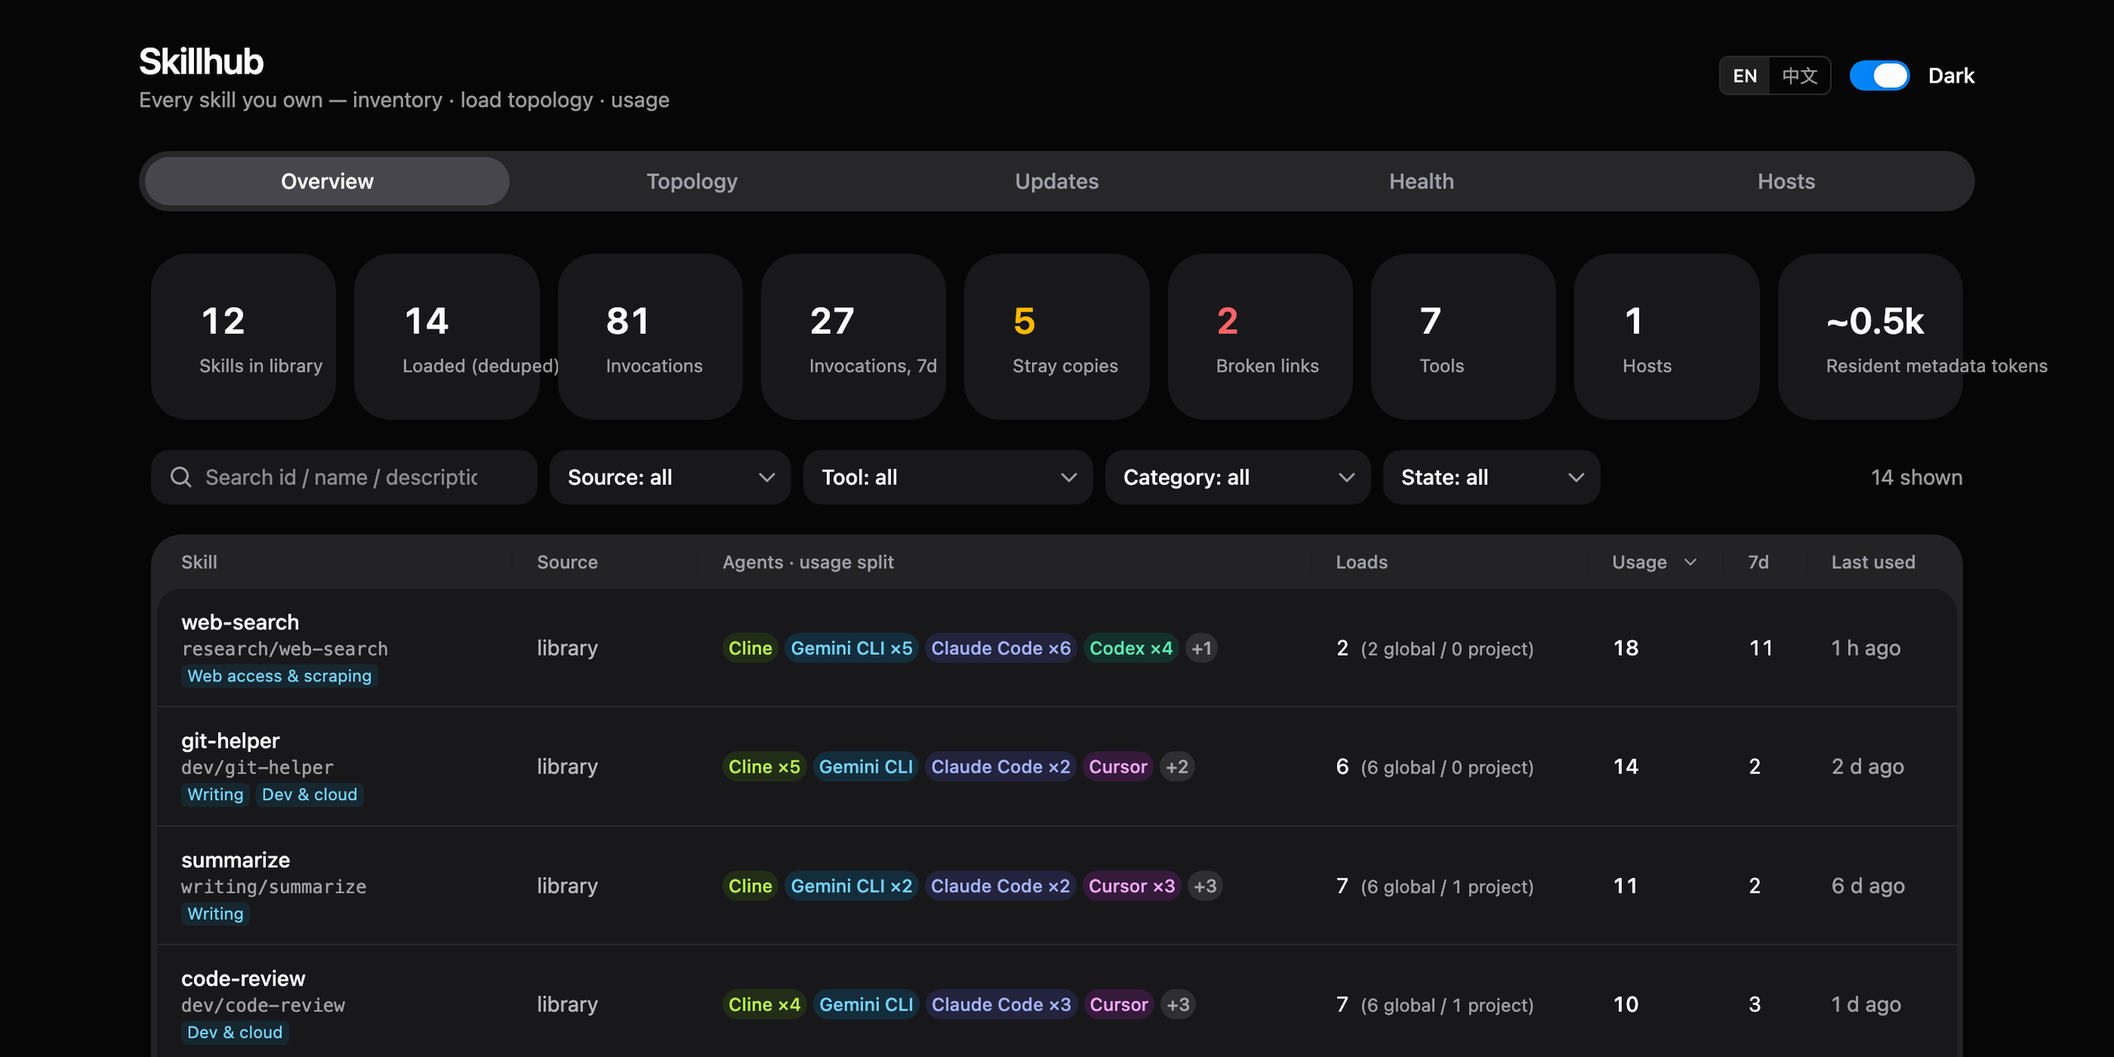
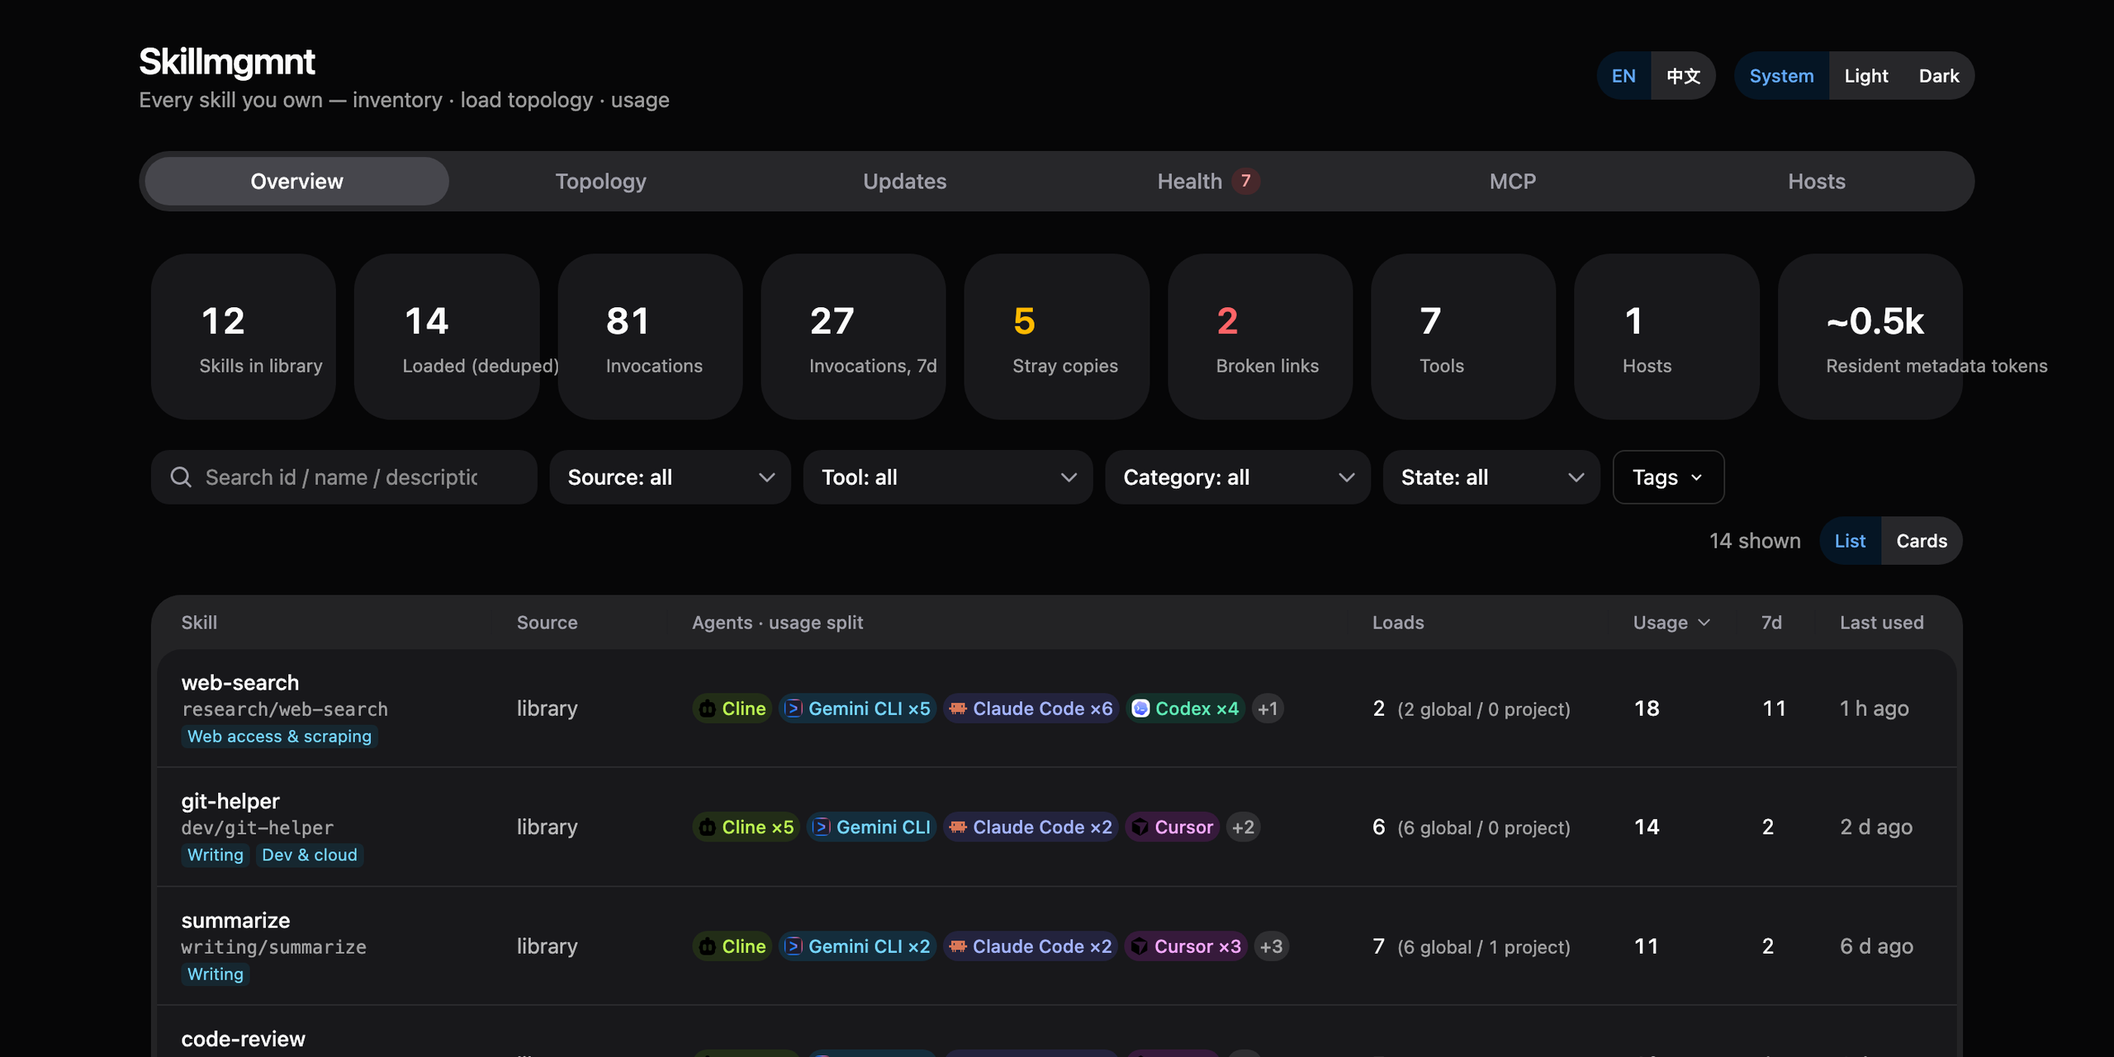
chore: rename to Skillmgmnt, with a fallback so existing installs keep working
The repository moved to hcodestack/skillmgmnt. The rename is scoped so that
nobody's install breaks over a name.

- **Environment variables** are now `SKILLMGMNT_*`. Every one is read as
  `SKILLMGMNT_<name>` first and falls back to `SKILLHUB_<name>`, so existing
  compose files and shell profiles keep working. The server prints one line at
  startup naming any old variable it is still reading, and the READMEs mark the
  old prefix deprecated.
- **bin/skillhub** applies the same fallback in shell, which matters more than
  it looks: `~/.skillhub/env` is written without `export`, so an `env` scan
  would miss every variable in it. `${!SKILLHUB_@}` covers shell variables too.
  Verified against a simulated pre-rename config.
- **The displayed name** is now Skillmgmnt, and the screenshots were retaken.
  A screenshot of the MCP tab is new.

Deliberately unchanged: `~/.skillhub`, the `skillhub_server` package, the
launchd and systemd unit names, the Docker volume, and the MCP registration
name. Renaming any of them would orphan an existing install's config or data
for a purely cosmetic gain.

diff --git a/web/src/lib/i18n.tsx b/web/src/lib/i18n.tsx
@@ -28,7 +28,7 @@ const STORAGE_KEY = 'skillhub-lang';
 
 const M = {
   // ── shell ──────────────────────────────────────────────────────────────
-  'app.title': ['Skillhub — local skill overview', 'Skillhub — 本地技能总揽'],
+  'app.title': ['Skillmgmnt — local skill overview', 'Skillmgmnt — 本地技能总揽'],
   'app.subtitle': [
     'Every skill you own — inventory · load topology · usage',
     '本地技能总揽 — 库存 · 载入拓扑 · 调用记录',

diff --git a/web/src/App.tsx b/web/src/App.tsx
@@ -108,7 +108,7 @@ export default function App() {
     <div className="mx-auto max-w-7xl px-4 py-6 md:px-8">
       <header className="mb-6 flex flex-wrap items-center justify-between gap-4">
         <div>
-          <h1 className="text-2xl font-semibold tracking-tight">Skillhub</h1>
+          <h1 className="text-2xl font-semibold tracking-tight">Skillmgmnt</h1>
           <p className="text-sm text-foreground/60">{t('app.subtitle')}</p>
         </div>
         <div className="flex flex-wrap items-center gap-3">

diff --git a/web/index.html b/web/index.html
@@ -3,7 +3,7 @@
   <head>
     <meta charset="UTF-8" />
     <meta name="viewport" content="width=device-width, initial-scale=1.0" />
-    <title>Skillhub — local skill overview</title>
+    <title>Skillmgmnt — local skill overview</title>
     <script>
       const t = localStorage.getItem('skillhub-theme')
         ?? (matchMedia('(prefers-color-scheme: dark)').matches ? 'dark' : 'light');

diff --git a/server/skillhub_server/core/config.py b/server/skillhub_server/core/config.py
@@ -1,35 +1,38 @@
 """Runtime configuration, overridable via environment variables.
 
-SKILLHUB_LIBRARY_ROOT   the skills library directory (the one required setting).
+Variables are named SKILLMGMNT_*. The former SKILLHUB_* names still
+work and are deprecated; see `_env` below.
+
+SKILLMGMNT_LIBRARY_ROOT   the skills library directory (the one required setting).
                         The hub scans it recursively for directories containing
                         a SKILL.md — no index file or particular layout needed.
-SKILLHUB_LIBRARY_INDEX  OPTIONAL: path to a pre-built index JSON
+SKILLMGMNT_LIBRARY_INDEX  OPTIONAL: path to a pre-built index JSON
                         ([{"id","name","description","source"}, ...]). When set
                         and present it is used instead of scanning, and the hub
                         re-syncs whenever the file's mtime changes. Useful when
                         an external tool already maintains a catalog.
-SKILLHUB_LIBRARY_SUBDIRS
+SKILLMGMNT_LIBRARY_SUBDIRS
                         OPTIONAL, comma-separated: restrict skill lookup to
                         these first-level subdirectories (e.g. "vendored,own").
                         Unset = the whole library root.
-SKILLHUB_INSTALLER_SUBDIR
+SKILLMGMNT_INSTALLER_SUBDIR
                         OPTIONAL: one subdirectory whose skills are managed by
                         their own installer CLI — the hub reports them but never
                         suggests updating them itself.
-SKILLHUB_ENTITY_WHITELIST
+SKILLMGMNT_ENTITY_WHITELIST
                         OPTIONAL, comma-separated "agent:entry_name" pairs that
                         are legitimately real directories inside tool entry dirs
                         (not stray copies) and should not be flagged.
-SKILLHUB_PROVENANCE_FILE
+SKILLMGMNT_PROVENANCE_FILE
                         OPTIONAL: JSON file mapping skill families to upstream
                         repos for the update checker — see core/provenance.py
                         for the schema.
-SKILLHUB_LIBRARY_DISPLAY_ROOT
+SKILLMGMNT_LIBRARY_DISPLAY_ROOT
                         library path as the USER sees it. The hub may see the
                         library at its own mount point (/library in Docker),
                         which is useless in a command someone pastes into their
                         own terminal — copyable commands use this instead.
-SKILLHUB_SELF_REPORT    "auto" (default) | "1" | "0". When on, the server runs
+SKILLMGMNT_SELF_REPORT    "auto" (default) | "1" | "0". When on, the server runs
                         the bundled reporter against itself every 15 minutes —
                         so a single-machine install needs no launchd/cron at
                         all. "auto" = on when the reporter script is present
@@ -37,9 +40,9 @@ SKILLHUB_SELF_REPORT    "auto" (default) | "1" | "0". When on, the server runs
                         scanning its own $HOME would observe nothing useful).
                         Multi-machine setups keep per-machine reporters and
                         can leave this on for the hub machine itself.
-SKILLHUB_DB             SQLite database path
-SKILLHUB_STATIC         built web SPA dir served at /
-SKILLHUB_HOST / SKILLHUB_PORT
+SKILLMGMNT_DB             SQLite database path
+SKILLMGMNT_STATIC         built web SPA dir served at /
+SKILLMGMNT_HOST / SKILLMGMNT_PORT
 """
 import os
 from pathlib import Path
@@ -48,22 +51,40 @@ BASE_DIR = Path(__file__).resolve().parent.parent.parent  # server/
 
 
 def _env(key: str, default: str) -> str:
-    return os.environ.get(key, default)
+    """Read `SKILLMGMNT_<key>`, falling back to the old `SKILLHUB_<key>`.
+
+    The project was renamed after people had already put the old names into
+    compose files and shell profiles. Dropping them would break those installs
+    for a cosmetic reason, so the old prefix keeps working and is documented as
+    deprecated. Remove the fallback only in a release that says it is doing so.
+    """
+    for prefix in ("SKILLMGMNT_", "SKILLHUB_"):
+        v = os.environ.get(prefix + key)
+        if v is not None:
+            return v
+    return default
+
+
+def legacy_env_in_use() -> list[str]:
+    """Old-prefix variables that are actually set, for a startup warning."""
+    return sorted(k for k in os.environ
+                  if k.startswith("SKILLHUB_")
+                  and ("SKILLMGMNT_" + k[len("SKILLHUB_"):]) not in os.environ)
 
 
 class Settings:
-    db_path = _env("SKILLHUB_DB", str(BASE_DIR / "data" / "skillhub.db"))
-    library_index = _env("SKILLHUB_LIBRARY_INDEX", "")
-    library_root = _env("SKILLHUB_LIBRARY_ROOT", "")
-    library_subdirs = _env("SKILLHUB_LIBRARY_SUBDIRS", "")
-    installer_subdir = _env("SKILLHUB_INSTALLER_SUBDIR", "")
-    entity_whitelist_raw = _env("SKILLHUB_ENTITY_WHITELIST", "")
-    provenance_file = _env("SKILLHUB_PROVENANCE_FILE", "")
-    library_display_root = _env("SKILLHUB_LIBRARY_DISPLAY_ROOT", "")
-    static_dir = _env("SKILLHUB_STATIC", str(BASE_DIR.parent / "web" / "dist"))
-    host = _env("SKILLHUB_HOST", "127.0.0.1")
-    port = int(_env("SKILLHUB_PORT", "8787"))
-    self_report = _env("SKILLHUB_SELF_REPORT", "auto")
+    db_path = _env("DB", str(BASE_DIR / "data" / "skillhub.db"))
+    library_index = _env("LIBRARY_INDEX", "")
+    library_root = _env("LIBRARY_ROOT", "")
+    library_subdirs = _env("LIBRARY_SUBDIRS", "")
+    installer_subdir = _env("INSTALLER_SUBDIR", "")
+    entity_whitelist_raw = _env("ENTITY_WHITELIST", "")
+    provenance_file = _env("PROVENANCE_FILE", "")
+    library_display_root = _env("LIBRARY_DISPLAY_ROOT", "")
+    static_dir = _env("STATIC", str(BASE_DIR.parent / "web" / "dist"))
+    host = _env("HOST", "127.0.0.1")
+    port = int(_env("PORT", "8787"))
+    self_report = _env("SELF_REPORT", "auto")
 
     @property
     def reporter_script(self) -> str:
@@ -92,7 +113,7 @@ class Settings:
     def library_bases(self) -> list[str]:
         """Absolute directories a skill id is resolved under, in priority order.
 
-        With SKILLHUB_LIBRARY_SUBDIRS unset the library root itself is the one
+        With SKILLMGMNT_LIBRARY_SUBDIRS unset the library root itself is the one
         base and a skill id is simply the directory's path relative to it —
         no layout convention is imposed."""
         root = self.library_root_path

diff --git a/server/skillhub_server/core/i18n.py b/server/skillhub_server/core/i18n.py
@@ -113,9 +113,9 @@ MESSAGES: dict[str, tuple[str, str]] = {
     "he.unindexed.hint": (
         "These directories hold a SKILL.md but are not in the configured index file — "
         "usually the index generator does not scan deep enough. Fix the generator, or "
-        "switch to the hub's built-in scan (leave SKILLHUB_LIBRARY_INDEX unset).",
+        "switch to the hub's built-in scan (leave SKILLMGMNT_LIBRARY_INDEX unset).",
         "这些目录含 SKILL.md 却不在配置的索引文件里——通常是索引生成器的扫描深度不够。"
-        "修索引工具，或改用 Hub 内置扫描（不设 SKILLHUB_LIBRARY_INDEX 即可）。",
+        "修索引工具，或改用 Hub 内置扫描（不设 SKILLMGMNT_LIBRARY_INDEX 即可）。",
     ),
     "he.thin.title": ("Descriptions too short to trigger reliably", "描述过短的技能（触发效果差）"),
     "he.thin.hint": (
@@ -289,7 +289,7 @@ MESSAGES: dict[str, tuple[str, str]] = {
     ),
 
     # ── governance report ──────────────────────────────────────────────────
-    "rep.title": ("# Skillhub governance report\n", "# Skillhub 治理报告\n"),
+    "rep.title": ("# Skillmgmnt governance report\n", "# Skillmgmnt 治理报告\n"),
     "rep.generated": ("> Generated {at} · hosts: {hosts}\n", "> 生成于 {at} · 主机：{hosts}\n"),
     "rep.intro": (
         "> This report can be handed straight to Claude Code / Codex: paste the file, "
@@ -364,8 +364,8 @@ MESSAGES: dict[str, tuple[str, str]] = {
     "rep.safety.line": ("- {id} — hits: {n}", "- {id}（命中 {n} 条）"),
 
     # ── remediation script ─────────────────────────────────────────────────
-    "sh.title": ("# Skillhub broken-link cleanup · generated {at}",
-                 "# Skillhub 断链清理脚本 · 生成于 {at}"),
+    "sh.title": ("# Skillmgmnt broken-link cleanup · generated {at}",
+                 "# Skillmgmnt 断链清理脚本 · 生成于 {at}"),
     "sh.hosts": ("# For hosts: {hosts} — run it on that machine",
                  "# 针对主机：{hosts} —— 在那台机器上运行"),
     "sh.none": ("(none)", "(无)"),
@@ -406,10 +406,10 @@ MESSAGES: dict[str, tuple[str, str]] = {
         "# ───── 第 3 部分：散落实体 → 软链（需先确认副本无本地改动！默认注释）─────",
     ),
     "sh.trashNote": (
-        "# Copies are MOVED to $TRASH (override with SKILLHUB_TRASH=...), never "
+        "# Copies are MOVED to $TRASH (override with SKILLMGMNT_TRASH=...), never "
         "deleted — undo is `mv` back. Delete the trash directory yourself once you "
         "are sure.",
-        "# 副本只 MOVE 到 $TRASH（可用 SKILLHUB_TRASH=... 覆盖），绝不删除——"
+        "# 副本只 MOVE 到 $TRASH（可用 SKILLMGMNT_TRASH=... 覆盖），绝不删除——"
         "撤回就是 mv 回去。确认无误后再自行删掉回收目录。",
     ),
 }

diff --git a/mcp/skillhub_mcp.py b/mcp/skillhub_mcp.py
@@ -1,5 +1,5 @@
 #!/usr/bin/env python3
-"""Skillhub MCP server — lets your own agent query the hub as a native tool.
+"""Skillmgmnt MCP server — lets your own agent query the hub as a native tool.
 
 Runs on your machine (stdio), talks to the hub over HTTP. The model and any
 keys stay in your agent; the hub only answers questions. That split is the
@@ -16,7 +16,7 @@ Pure stdlib, same as the reporter, so it runs anywhere Python does without an
 install step.
 
 Usage:
-    skillhub_mcp.py [hub-url]          # default: $SKILLHUB_URL, else localhost
+    skillhub_mcp.py [hub-url]          # default: $SKILLMGMNT_URL, else localhost
 
 Register with Claude Code:
     claude mcp add skillhub -- /path/to/skillhub_mcp.py http://<hub-host>:8787
@@ -30,7 +30,7 @@ import urllib.parse
 import urllib.request
 
 HUB = (sys.argv[1] if len(sys.argv) > 1
-       else os.environ.get("SKILLHUB_URL", "http://127.0.0.1:8787")).rstrip("/")
+       else os.environ.get("SKILLMGMNT_URL", "http://127.0.0.1:8787")).rstrip("/")
 TIMEOUT = 20
 PROTOCOL_VERSION = "2025-06-18"
 
@@ -170,7 +170,7 @@ def t_usage_events(args):
 
 
 TOOLS = [
-    ("overview", "Skillhub 总览：库内技能数、已载入数、调用数、工具数、断链数、"
+    ("overview", "Skillmgmnt 总览：库内技能数、已载入数、调用数、工具数、断链数、"
                  "元数据常驻 token 数，以及上报的主机列表。回答「现在整体什么状况」。",
      {"type": "object", "properties": {}}, t_overview),
     ("search_skills", "按关键词搜索技能（匹配 id/名称/描述/分类/标签，多词为 AND）。"
@@ -259,7 +259,7 @@ def handle(req):
         except (urllib.error.URLError, OSError) as e:
             # the hub being down is an answerable condition, not a crash: say so
             # in-band so the agent can tell the user instead of losing the server
-            text, err = f"Skillhub 不可达（{HUB}）：{e}", True
+            text, err = f"Skillmgmnt 不可达（{HUB}）：{e}", True
         except Exception as e:
             text, err = f"{type(e).__name__}: {e}", True
         else:

diff --git a/reporter/skillhub_report.py b/reporter/skillhub_report.py
@@ -1,5 +1,5 @@
 #!/usr/bin/env python3
-"""Skillhub reporter — scans this machine's agent entry dirs and session logs,
+"""Skillmgmnt reporter — scans this machine's agent entry dirs and session logs,
 then pushes inventory snapshots + usage events to the hub. Stdlib only, so any
 LAN machine can run it with a bare python3.
 
@@ -33,7 +33,7 @@ USAGE_ADAPTERS = [claude_code, codex, workbuddy]
 # by this single scanner — see adapters/tool_table.py.
 INVENTORY_SCANNER = tools
 
-STATE_DIR = Path(os.environ.get("SKILLHUB_STATE", str(Path.home() / ".local/state/skillhub")))
+STATE_DIR = Path(os.environ.get("SKILLMGMNT_STATE", str(Path.home() / ".local/state/skillhub")))
 STATE_FILE = STATE_DIR / "reporter-state.json"
 SPOOL_DIR = STATE_DIR / "spool"
 CHUNK = 4000  # max events per POST
@@ -94,11 +94,11 @@ def flush_spool(server: str) -> None:
 
 
 def main() -> int:
-    ap = argparse.ArgumentParser(description="Skillhub per-machine reporter")
-    ap.add_argument("--server", default=os.environ.get("SKILLHUB_SERVER", "http://127.0.0.1:8787"))
+    ap = argparse.ArgumentParser(description="Skillmgmnt per-machine reporter")
+    ap.add_argument("--server", default=os.environ.get("SKILLMGMNT_SERVER", "http://127.0.0.1:8787"))
     ap.add_argument("--backfill", action="store_true", help="ignore cursors, re-scan full history")
     ap.add_argument("--dry-run", action="store_true")
-    ap.add_argument("--host-label", default=os.environ.get("SKILLHUB_HOST_LABEL", ""))
+    ap.add_argument("--host-label", default=os.environ.get("SKILLMGMNT_HOST_LABEL", ""))
     args = ap.parse_args()
 
     # single-instance lock: hook + launchd may fire concurrently

diff --git a/server/skillhub_server/main.py b/server/skillhub_server/main.py
@@ -1,4 +1,4 @@
-"""Skillhub server entrypoint."""
+"""Skillmgmnt server entrypoint."""
 import threading
 from contextlib import asynccontextmanager
 from pathlib import Path
@@ -82,6 +82,13 @@ def _vet_skills_bg() -> None:
 
 @asynccontextmanager
 async def lifespan(app: FastAPI):
+    # the project was renamed; anyone still on the old prefix keeps working but
+    # should hear about it once rather than discover it when support is dropped
+    from .core.config import legacy_env_in_use
+    legacy = legacy_env_in_use()
+    if legacy:
+        print(f"[skillmgmnt] using deprecated {', '.join(legacy)} — "
+              f"rename to SKILLMGMNT_* when convenient")
     get_conn()
     result = sync_library()
     if not result.get("ok"):
@@ -95,7 +102,7 @@ async def lifespan(app: FastAPI):
 
 
 def create_app() -> FastAPI:
-    app = FastAPI(title="Skillhub", version="0.1.0", lifespan=lifespan)
+    app = FastAPI(title="Skillmgmnt", version="0.1.0", lifespan=lifespan)
     app.add_middleware(
         CORSMiddleware,
         allow_origins=["http://localhost:5173", "http://127.0.0.1:5173"],

diff --git a/server/skillhub_server/modules/library.py b/server/skillhub_server/modules/library.py
@@ -1,9 +1,9 @@
 """Library module — sync the skill catalog.
 
 Two sources, in order of preference:
-  1. SKILLHUB_LIBRARY_INDEX, if set and readable — a pre-built JSON catalog
+  1. SKILLMGMNT_LIBRARY_INDEX, if set and readable — a pre-built JSON catalog
      maintained by an external tool; the hub re-syncs when its mtime changes.
-  2. Otherwise the hub scans SKILLHUB_LIBRARY_ROOT itself: every directory
+  2. Otherwise the hub scans SKILLMGMNT_LIBRARY_ROOT itself: every directory
      holding a SKILL.md becomes a skill, its id the path relative to the
      library root. No layout convention, no extra tooling required.
 """
@@ -160,7 +160,7 @@ def _sync_library() -> dict:
         data = _scan_library()
     else:
         return {"ok": False,
-                "error": "no library configured — set SKILLHUB_LIBRARY_ROOT"}
+                "error": "no library configured — set SKILLMGMNT_LIBRARY_ROOT"}
     now = time.strftime("%Y-%m-%dT%H:%M:%S")
     ids: set[str] = set()
     with tx():

diff --git a/server/skillhub_server/modules/report.py b/server/skillhub_server/modules/report.py
@@ -75,7 +75,7 @@ def build_plan(lang: str = "en") -> dict:
             "FROM installs WHERE active=1 AND link_type='entity' "
             "AND vcs!='vendored' ORDER BY host,agent,entry_name").fetchall():
         if (r["agent"], r["entry_name"]) in settings.entity_whitelist():
-            continue          # sanctioned entities (SKILLHUB_ENTITY_WHITELIST)
+            continue          # sanctioned entities (SKILLMGMNT_ENTITY_WHITELIST)
         lib = _library_display_dir(r["skill_id"]) if r["skill_id"] else ""
         loose.append({
             "host": r["host"], "agent": r["agent"], "scope": r["scope"],
@@ -213,7 +213,7 @@ def remediation_sh(lang: str = "en") -> str:
     w(_("sh.explain3"))
     w("set -u")
     w('removed=0; skipped=0')
-    w('TRASH="${SKILLHUB_TRASH:-$HOME/.local/state/skillhub/trash-$(date +%Y%m%d)}"')
+    w('TRASH="${SKILLMGMNT_TRASH:-$HOME/.local/state/skillhub/trash-$(date +%Y%m%d)}"')
     w("")
     w(_("sh.part1", n=p["totals"]["broken"]))
     for b in p["broken"]:

diff --git a/server/skillhub_server/modules/health.py b/server/skillhub_server/modules/health.py
@@ -13,7 +13,7 @@ from ..core.jobs import last_runs
 router = APIRouter(prefix="/health", tags=["health"])
 
 # Sanctioned entries that are legitimately entities in entry dirs — configure
-# via SKILLHUB_ENTITY_WHITELIST="agent:entry,agent:entry".
+# via SKILLMGMNT_ENTITY_WHITELIST="agent:entry,agent:entry".
 def WHITELIST():
     return settings.entity_whitelist()
 

diff --git a/server/skillhub_server/core/provenance.py b/server/skillhub_server/core/provenance.py
@@ -2,7 +2,7 @@
 
 Skills copied out of a bigger upstream repository carry no origin of their
 own, so upstream-movement checks need a mapping you provide. Point
-SKILLHUB_PROVENANCE_FILE at a JSON object:
+SKILLMGMNT_PROVENANCE_FILE at a JSON object:
 
     {
       "some-family": {
